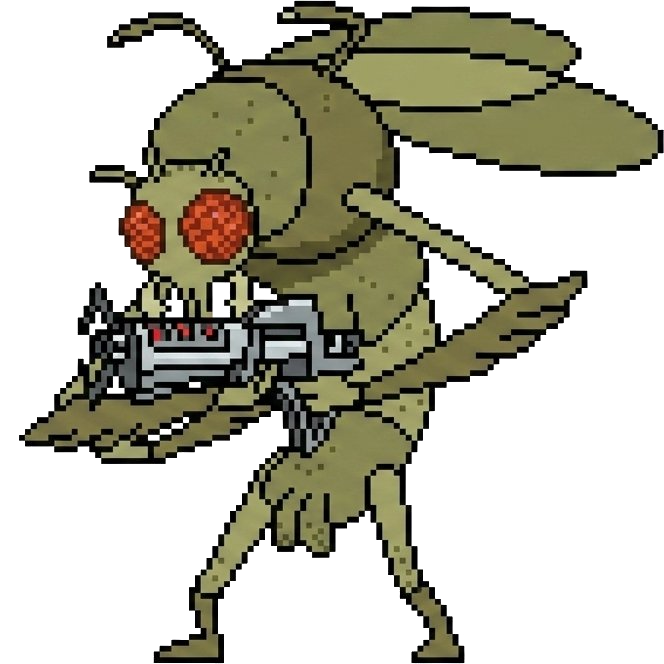
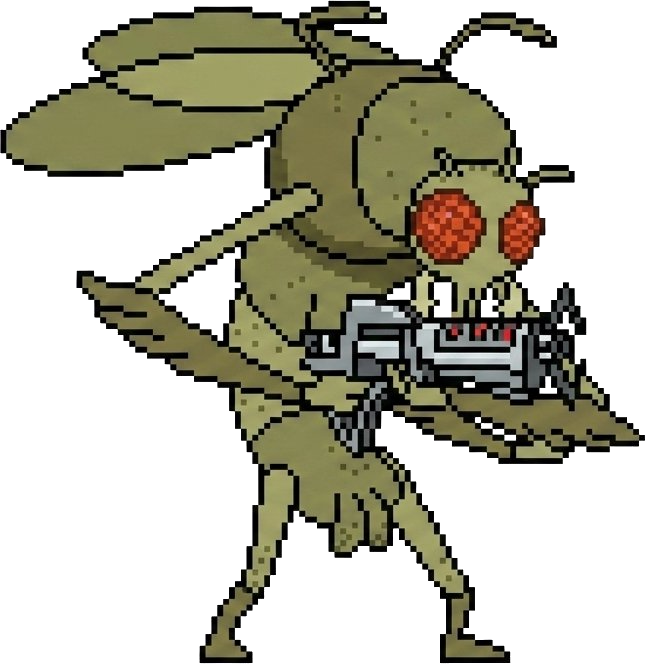
feat(Code): rendre plus agréable le jeu
[43][DONE]

diff --git a/Shoot-em-UP/Drones/Model/Ennemie.cs b/Shoot-em-UP/Drones/Model/Ennemie.cs
@@ -21,7 +21,7 @@ namespace Ennemie_name
         private List<Bullet> bullets = Game.bullets;
 
         // Constructeur
-        public Ennemie(int x, int y,int vie)
+        public Ennemie(int x, int y, int vie)
         {
             _x = x;
             _y = y;
@@ -33,38 +33,54 @@ namespace Ennemie_name
 
         public static int ENNEMIESIZE => _ENNEMIESIZE;
 
-        public void Update(int interval,List<Ennemie> ennemies)
+        public void Update(int interval, List<Ennemie> ennemies)
         {
-            for (int i = 0; i < bullets.Count-1; i++)
+
+            for (int i = 0; i < bullets.Count - 1; i++)
             {
                 if (MathHelpers.Distance(_x, _y, bullets[i].X, bullets[i].Y) <= _ENNEMIESIZE)
                 {
                     _vie--;
                 }
             }
-            
+
 
             int targetX = Joueur.X + 50;
             int targetY = Joueur.Y + 50;
             double distance = MathHelpers.Distance(_x, _y, targetX, targetY);
-            if (distance <= Config.SPEED *5* interval / 1000)                 // L'objectif est atteint (ou tout proche)
+            if (distance <= Config.SPEED * 5 * interval / 1000)                 // L'objectif est atteint (ou tout proche)
             {
                 _x = targetX;
                 _y = targetY;
             }
 
-            
-            double dx = targetX - _x;
-            double dy = targetY - _y;
+
+            float dx = targetX - _x;
+            float dy = targetY - _y;
             _x += (int)(dx / distance * Config.SPEED * 5 * interval / 1000);
             _y += (int)(dy / distance * Config.SPEED * 5 * interval / 1000);
         }
         public void Render(BufferedGraphics drawingSpace)
         {
             
-            drawingSpace.Graphics.DrawImage(Resources.ennemie,_x, _y, _ENNEMIESIZE, _ENNEMIESIZE);
+            var state = drawingSpace.Graphics.Save();
+
+            if (_x - Joueur.X > 0)
+            {
+                drawingSpace.Graphics.TranslateTransform(_x + _ENNEMIESIZE, _y);
+                drawingSpace.Graphics.ScaleTransform(-1, 1);
+                drawingSpace.Graphics.DrawImage(Resources.ennemie, 0, 0, _ENNEMIESIZE, _ENNEMIESIZE);
+            }
+            else
+            {
+                drawingSpace.Graphics.DrawImage(Resources.ennemie, _x, _y, _ENNEMIESIZE, _ENNEMIESIZE);
+            }
+
+            drawingSpace.Graphics.Restore(state);
+
+
             
         }
-        
+
     }
 }

diff --git a/Shoot-em-UP/Drones/Model/joueur.cs b/Shoot-em-UP/Drones/Model/joueur.cs
@@ -1,4 +1,5 @@
 using Joueurs.Helpers;
+using Shoot_em_up.Helpers;
 using Shoot_em_up.Model;
 using Shoot_em_up.Properties;
 using System.Runtime.InteropServices;
@@ -46,10 +47,6 @@ namespace Joueurs
 
         public void Shoot(List<Bullet> bullets, Point mousePos, int interval)
         {
-           
-            
-            
-            
             
             // Réduis cette valeur pour que la balle apparaisse près du canon et non au milieu de nulle part
             float distanceDuCanon = 45.0f;
@@ -65,8 +62,8 @@ namespace Joueurs
                 double offsetX = Math.Cos(angleRadians) * distanceDuCanon;
                 double offsetY = Math.Sin(angleRadians) * distanceDuCanon;
 
-                int pointDepartX = (int)(_x + 100 + offsetX);
-                int pointDepartY = (int)(_y + 100 + offsetY);
+                int pointDepartX = (int)(_x + Joueur.PLAYERSIZE /2 + offsetX);
+                int pointDepartY = (int)(_y  + Joueur.PLAYERSIZE/2 + offsetY);
 
                 bullets.Add(new Bullet(pointDepartX, pointDepartY, bulletAngle, interval));
                 

diff --git a/Shoot-em-UP/Drones/View/Game.cs b/Shoot-em-UP/Drones/View/Game.cs
@@ -24,7 +24,9 @@ namespace Joueurs
 
         private static int _timer = 10;
 
-        private static int _ennemiesSpawn;
+        private static int _numberEnnemis = 1;
+
+        private static int _ennemiesSpawn = 30;
 
         private List<Ennemie> _ennemies = new List<Ennemie>();
 
@@ -78,10 +80,13 @@ namespace Joueurs
         {
             _timer++;
             _ennemiesSpawn++;
+
            
             if(_ennemiesSpawn >= 50)
             {
-                _ennemies.Add(new Ennemie(MathHelpers.alea.Next(WIDTH), 0, 2));
+                _numberEnnemis = MathHelpers.alea.Next(1, 3);
+                for (int i = 0; i <_numberEnnemis; i++)
+                    _ennemies.Add(new Ennemie(MathHelpers.alea.Next(WIDTH), 0, 2));
                 _ennemiesSpawn = 0;
             }
 
